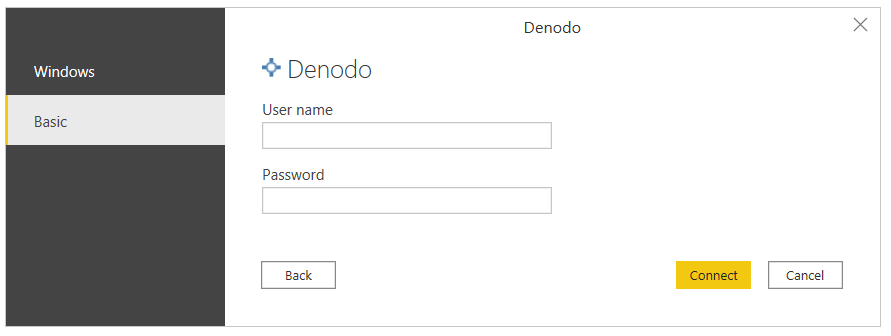
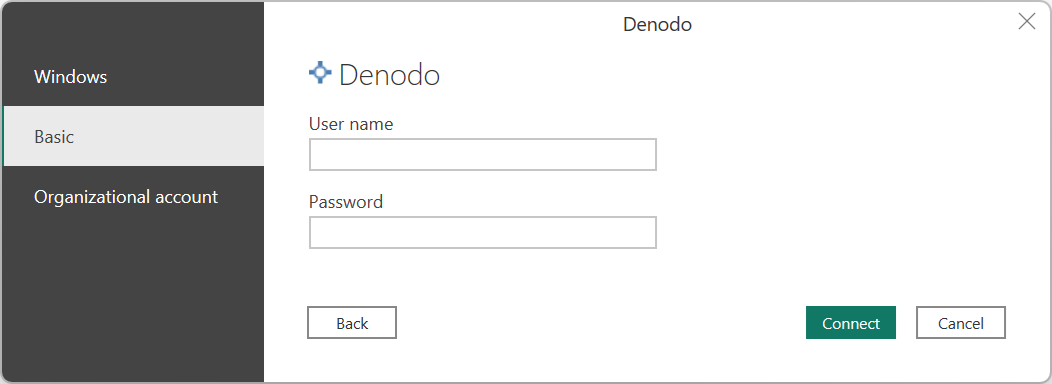
Updated Denodo connector images and MS style

diff --git a/powerquery-docs/connectors/denodo.md b/powerquery-docs/connectors/denodo.md
@@ -12,7 +12,7 @@ ms.custom: sfi-image-nochange
 
 # Denodo
 
->[!Note]
+> [!NOTE]
 >This connector is owned and provided by Denodo.
 
 ## Summary
@@ -21,14 +21,14 @@ ms.custom: sfi-image-nochange
 | ---- | ----------- |
 | Release State | General Availability |
 | Products | Power BI (Semantic models)<br/>Power BI (Dataflows)<br/>Fabric (Dataflow Gen2) |
-| Authentication Types Supported | Basic <br/>Windows<br/> |
+| Authentication Types Supported | Basic <br/>Windows<br/>Organizational account |
 
 > [!NOTE]
 > Some capabilities might be present in one product but not others due to deployment schedules and host-specific capabilities.
 
 ## Prerequisites
 
-To use this connector, you must have installed the Denodo platform, and configured and started its service. In case of a connection using an ODBC DSN, you must have correctly configured the connection in the ODBC Data Source Administrator.
+To use this connector, the Denodo platform must be installed and configured, and its service started. If you have a connection using an ODBC DSN, you must correctly configure the connection in the ODBC Data Source Administrator.
 
 ## Capabilities supported
 
@@ -41,7 +41,7 @@ To make the connection, take the following steps:
 
 1. In order to connect to data, select **Get Data** from the **Home** ribbon and select **Denodo** in the **Database** section.
 
-   :::image type="content" source="./media/denodo/select-denodo.png" alt-text="Denodo connector in Power Query Desktop.":::
+   :::image type="content" source="./media/denodo/select-denodo.png" alt-text="Screenshot of the Denodo connector in Power Query Desktop.":::
 
 2. There are two ways to connect to the data source of your choice:
 
@@ -50,11 +50,11 @@ To make the connection, take the following steps:
 
    In the **DSN or Connection String** section of the **Denodo Connector** dialog box, provide the **Data source name (DSN)** or the **Connection String** depending on the type of connection you prefer.
 
-   :::image type="content" source="./media/denodo/denodo-connector.png" alt-text="Denodo connector dialog.":::
+   :::image type="content" source="./media/denodo/denodo-connector.png" alt-text="Screenshot of the Denodo connector dialog.":::
 
-    When creating a Denodo-compatible connection string, you must take into account that the **Driver** field must be omitted, as this is transparently set at connection time by the connector itself.
+    When creating a Denodo-compatible connection string, you must take into account that the **Driver** field must be omitted, as this field is transparently set at connection time by the connector itself.
 
-    The connection string must contain three mandatory parameters: **SERVER**, **PORT** and **DATABASE**:
+    The connection string must contain three mandatory parameters: **SERVER**, **PORT**, and **DATABASE**:
 
     ```http
     SERVER=<Server name>;PORT=<Port number>;DATABASE=<Database name>
@@ -69,16 +69,16 @@ To make the connection, take the following steps:
     Authentication parameters must be omitted, as authentication is configured in later steps.
 
    > [!NOTE]
-   > When writing the connection string, it must be taken into account:
+   > When you write the connection string, the following considerations must be taken into account:
    >
-   > * The connection string must keep the correct order of its parameters: SERVER, PORT, DATABASE and SSLMode.
+   > * The connection string must keep the correct order of its parameters: SERVER, PORT, DATABASE, and SSLMode.
    > * The name of these parameters must always be written in the same way. For example, if you choose to write them in upper case, they must always be written in upper case; if you decide to write them capitalized (writing the first letter of a word in uppercase and the rest of the letters in lowercase) they must always be written that way.
    >
    > Doing otherwise could prevent Power BI from recognizing different Denodo data sets in a report as belonging to the same Denodo data source and, as a consequence, request separate authentication credentials for each of them.
 
-3. The second section, **Enable debug mode**, is an optional field that allows you to add trace information to log files. These files are created by Power BI Desktop when you enable tracing in the application using the **Diagnostics** tab in the **Options** menu. Note that the default value for **Enable debug mode** is false, and in this scenario, there will be no trace data in the log files from Denodo Power BI custom connector.
+3. The second section, **Enable debug mode**, is an optional field that allows you to add trace information to log files. These files are created by Power BI Desktop when you enable tracing in the application using the **Diagnostics** tab in the **Options** menu. Note that the default value for **Enable debug mode** is false, and in this scenario, there's no trace data in the log files from Denodo Power BI custom connector.
 
-4. The third section, **Native Query**, is an optional field where you can enter a query. If this query field is used, the resulting data set will be the result of the query instead of a table or a set of tables.
+4. The third section, **Native Query**, is an optional field where you can enter a query. If this query field is used, the resulting data set is the result of the query instead of a table or a set of tables.
 
     You can write a query that queries only one of the databases that the datasource is associated with.
 
@@ -96,11 +96,11 @@ To make the connection, take the following steps:
 
 6. Once you're done, select **OK**.
 
-7. Before showing the navigator window that displays a preview of the available data in Denodo Virtual DataPort, you'll be asked for authentication. The Denodo Power BI custom connector supports two authentication types: Windows and Basic.
+7. Before showing the navigator window that displays a preview of the available data in Denodo Virtual DataPort, you're asked for authentication. The Denodo Power BI custom connector supports two authentication types: Windows and Basic.
 
    * **Windows**: When you choose to use Windows authentication, Power BI Desktop connects to Virtual DataPort using Kerberos authentication.
 
-      :::image type="content" source="./media/denodo/denodo-windows-authentication.png" alt-text="Denodo Windows authentication in Power BI Desktop.":::
+      :::image type="content" source="./media/denodo/denodo-windows-authentication.png" alt-text="Screenshot of the Denodo Windows authentication in Power BI Desktop.":::
 
       In this case:
 
@@ -112,35 +112,35 @@ To make the connection, take the following steps:
 
       * Make sure the **Advanced Options** page of the DSN configuration contains all the needed configuration for using Kerberos as an authentication method.
 
-        :::image type="content" source="./media/denodo/denodo-advanced-options-dsn.png" alt-text="Advanced Options page at the Denodo DSN configuration.":::
+        :::image type="content" source="./media/denodo/denodo-advanced-options-dsn.png" alt-text="Screenshot of the Advanced Options page at the Denodo DSN configuration.":::
 
    * **Basic**: This authentication type allows you to connect Power BI Desktop to your Virtual DataPort data using your Virtual DataPort server credentials.
 
-      :::image type="content" source="./media/denodo/denodo-basic-authentication.png" alt-text="Denodo basic authentication in Power BI Desktop.":::
+      :::image type="content" source="./media/denodo/denodo-basic-authentication.png" alt-text="Screenshot of the Denodo basic authentication in Power BI Desktop.":::
 
         > [!NOTE]
-        > Older versions of the Denodo connector required the escaping of certain password characters. As of version 1.0.8 this is no longer needed.
+        > Older versions of the Denodo connector required the escaping of certain password characters. As of version 1.0.8 this escaping is no longer needed.
 
-   * **Organizational Account**: This authentication type allows you to connect Power BI Desktop to your Virtual DataPort data using a specific set of Microsoft crendentials. This authentication kind is a specialized version of OAuth for Microsoft Entra ID. 
+   * **Organizational Account**: This authentication type allows you to connect Power BI Desktop to your Virtual DataPort data using a specific set of Microsoft credentials. This authentication kind is a specialized version of OAuth for Microsoft Entra ID.
   
-        :::image type="content" source="./media/denodo/denodo-entra-id-authentication.png" alt-text="Denodo organizational account authentication in Power BI Desktop.":::
-    
+        :::image type="content" source="./media/denodo/denodo-entra-id-authentication.png" alt-text="Screenshot of the Denodo organizational account authentication in Power BI Desktop.":::
+
         When you select **Sign in**, a sign-in tab opens. Enter the Microsoft credentials to be used for this data source.
 
-        :::image type="content" source="./media/denodo/denodo-entra-id-authentication2.png" alt-text="Denodo organizational account sign in.":::
+        :::image type="content" source="./media/denodo/denodo-entra-id-authentication2.png" alt-text="Screenshot of the Denodo organizational account sign in.":::
 
         Once you're signed in, select **Connect** and the navigator screen for table selection should load.
-     
-        :::image type="content" source="./media/denodo/denodo-entra-id-authentication3.png" alt-text="Denodo organizational account connect.":::
+
+        :::image type="content" source="./media/denodo/denodo-entra-id-authentication3.png" alt-text="Screenshot of the Denodo organizational account connect.":::
 
         > [!NOTE]
-        > In order to access VDP databases, a user must be created in Denodo whose name is the same as the email used in Power BI when signing in to the organizational account. When creating the user in Denodo, EXTERNAL must be selected as authentication type. The permissions given to this user on the Denodo databases determines which databases can be accessed from Power BI Desktop.
+        > In order to access VDP databases, a user must be created in Denodo whose name is the same as the email used in Power BI when signing in to the organizational account. When you create the user in Denodo, EXTERNAL must be selected as authentication type. The permissions given to this user on the Denodo databases determine which databases can be accessed from Power BI Desktop.
 
 8. Once you're done, select **Connect**.
 
 9. In **Navigator**, select the data you need from the database you want and choose **Load**, or choose **Transform Data** if you're going to modify the incoming data.
 
-   :::image type="content" source="./media/denodo/denodo-navigator.png" alt-text="Denodo navigator.":::
+   :::image type="content" source="./media/denodo/denodo-navigator.png" alt-text="Screenshot of the Denodo navigator.":::
 
 ## Connect to an ODBC data source from Power BI service using the on-premises data gateway
 
@@ -150,17 +150,17 @@ To make the connection, take the following steps:
 
 2. Sign in and register your gateway. In the on-premises data gateway app, select the **Status** tab to verify that your gateway is online and ready to be used.
 
-   :::image type="content" source="./media/denodo/on-premises-data-gateway.png" alt-text="On-premises data gateway with status tab open.":::
+   :::image type="content" source="./media/denodo/on-premises-data-gateway.png" alt-text="Screenshot of the on-premises data gateway with status tab open.":::
 
 3. Using the gateway settings page in Power BI service, create a data source for the Denodo Power BI custom connector.
 
-   :::image type="content" source="./media/denodo/data-source-settings-select-denodo.png" alt-text="Add Denodo Data source.":::
+   :::image type="content" source="./media/denodo/data-source-settings-select-denodo.png" alt-text="Screenshot of the Data Source Settings dialog where you add the Denodo Data source.":::
 
    In order to create the data source, you have to specify the way to connect to the data source of your choice:
       * Through DSN
       * Using a connection string
       > [!NOTE]
-      > When deciding whether to connect via a connection string or DSN, it is recommended to use the latter. This is because the DSN configuration offers many more configuration options that might not be directly available when using a connection string.
+      > When deciding whether to connect via a connection string or DSN, it's recommended to use the latter. This method is recommended because the DSN configuration offers many more configuration options that might not be directly available when using a connection string.
 
    You also have to specify the authentication mode. The available authentication methods are:
       * **Windows**: When you choose to use Windows authentication, Power BI service connects to Virtual DataPort using Kerberos authentication. You need:
@@ -169,29 +169,29 @@ To make the connection, take the following steps:
          * The Denodo Virtual DataPort database that the data source connects to must be configured with the option **ODBC/ADO.net authentication type** set to **Kerberos**.
          * Make sure the **Advanced Options** page of the DSN configuration contains all the needed configuration for using Kerberos as an authentication method.
 
-           :::image type="content" source="./media/denodo/denodo-advanced-options-dsn.png" alt-text="Advanced Options page at the Denodo DSN configuration.":::
+           :::image type="content" source="./media/denodo/denodo-advanced-options-dsn.png" alt-text="Screenshot of the Advanced Options page at the Denodo DSN configuration.":::
 
       * **Basic**: This authentication type allows you to create a data source in Power BI service to connect to your Virtual DataPort data using your Virtual DataPort server credentials.
       * **Oauth**: This authentication type allows you to create a data source in Power BI service to connect to your Virtual DataPort data using Microsoft credentials.
 
         > [!NOTE]
-        > In order to access the VDP databases, a user must be created in Denodo whose name is the same as the email used in Power BI when logging into the organizational account. When creating the user in Denodo, EXTERNAL must be selected as authentication type. The permissions given to this user on the Denodo databases determines which databases can be accessed from Power BI.
-        
+        > In order to access the VDP databases, a user must be created in Denodo whose name is the same as the email used in Power BI when logging into the organizational account. When you create the user in Denodo, EXTERNAL must be selected as authentication type. The permissions given to this user on the Denodo databases determine which databases can be accessed from Power BI.
+
 4. If you use Windows authentication, under **Advanced settings** for the data source you can enable the single sign-on (SSO) authentication schema in order to use the same credentials of the user accessing your reports in Power BI for accessing the required data in Denodo.
 
-   :::image type="content" source="./media/denodo/denodo-sso.png" alt-text="Denodo SSO using Kerberos.":::
+   :::image type="content" source="./media/denodo/denodo-sso.png" alt-text="Screenshot of the Data Source Settings dialog where you set Denodo SSO using Kerberos.":::
 
    There are two options for enabling SSO: **Use SSO via Kerberos for DirectQuery queries** and **Use SSO via Kerberos for DirectQuery And Import queries**. If you're working with _DirectQuery_ based reports, both options use the SSO credentials of the user that signs in to the Power BI service. The difference comes when you work with _Import_ based reports. In this scenario, the former option uses the credentials entered in the data source page (**Username** and **Password** fields), while the latter uses the credentials of the data set owner.
 
    It's important to note that there are particular prerequisites and considerations that you must take into account in order to use the Kerberos-based SSO. Some of these essential requirements are:
 
-   * Kerberos constrained delegation must be enabled for the Windows user running the Microsoft Power BI Gateway, and configuration of both the local Active Directory and Microsoft Entra ID environments should be performed according to the instructions offered by Microsoft for this purpose.
+   * Kerberos constrained delegation must be enabled for the Windows user running the Microsoft Power BI Gateway. Also, configuration of both the local Active Directory and Microsoft Entra ID environments should be performed according to the instructions offered by Microsoft for this purpose.
 
-     By default, the Microsoft Power BI Gateway sends the user principal name (UPN) when it performs an SSO authentication operation. Therefore, you'll need to review the attribute that you'll use as a login identifier in Denodo Kerberos Authentication and, if it's different from `userPrincipalName`, adjust the gateway settings according to this value.
+     By default, the Microsoft Power BI Gateway sends the user principal name (UPN) when it performs an SSO authentication operation. Therefore, you need to review the attribute that you use as a login identifier in Denodo Kerberos Authentication and, if it's different from `userPrincipalName`, adjust the gateway settings according to this value.
 
-   * The Microsoft Power BI Gateway configuration file called `Microsoft.PowerBI.DataMovement.Pipeline.GatewayCore.dll.config`, stored at `\Program Files\On-premises data gateway` has two properties called `ADUserNameLookupProperty` and `ADUserNameReplacementProperty` that allow the gateway to perform local Microsoft Entra ID lookups at runtime. The `ADUserNameLookupProperty` must specify against which attribute of the local AD it must map the user principal name that comes from Microsoft Entra ID. So, in this scenario, `ADUserNameLookupProperty` should be `userPrincipalName`. Then, once the user is found, the `ADUserNameReplacementProperty` value indicates the attribute that should be used to authenticate the impersonated user (the attribute that you'll use as the login identifier in Denodo).
+   * The Microsoft Power BI Gateway configuration file called `Microsoft.PowerBI.DataMovement.Pipeline.GatewayCore.dll.config`, stored at `\Program Files\On-premises data gateway` has two properties called `ADUserNameLookupProperty` and `ADUserNameReplacementProperty` that allow the gateway to perform local Microsoft Entra ID lookups at runtime. The `ADUserNameLookupProperty` must specify against which attribute of the local AD it must map the user principal name that comes from Microsoft Entra ID. So, in this scenario, `ADUserNameLookupProperty` should be `userPrincipalName`. Then, once the user is found, the `ADUserNameReplacementProperty` value indicates the attribute that should be used to authenticate the impersonated user (the attribute that you use as the login identifier in Denodo).
 
-     You should also take into account that changes in this configuration file are at the gateway level, and therefore will affect any source with which SSO authentication is done through the Microsoft Power BI Gateway.
+     You should also take into account that changes in this configuration file are at the gateway level, and therefore affects any source with which SSO authentication is done through the Microsoft Power BI Gateway.
 
 5. Once a data source is created for the Denodo connector, you can refresh Power BI reports. To publish a report on powerbi.com, you need to:
    * Open the report in Power BI Desktop.
@@ -201,45 +201,45 @@ To make the connection, take the following steps:
 
 ## Advanced configuration
 
-### Use of the ConnectionTimeout parameter.
+### Use of the ConnectionTimeout parameter
 
-If you want to control how long to wait before abandoning an attempt to make a connection to a server, you can use the  `ConnectionTimeout` parameter. 
+If you want to control how long to wait before abandoning an attempt to make a connection to a server, you can use the  `ConnectionTimeout` parameter.
 
 This parameter can only be used from the advanced editor. To do so, the `ConnectionTimeout` parameter must be added in the record options, associating a value of type `duration` to it.
 
 > Learn more about the `duration` type [here](/powerquery-m/sharpduration).
 
-   :::image type="content" source="./media/denodo/denodo-connectiontimeout.png" alt-text="Use of the ConnectionTimeout parameter.":::
+   :::image type="content" source="./media/denodo/denodo-connectiontimeout.png" alt-text="Screenshot of the advanced editor showing how to use of the ConnectionTimeout parameter.":::
 
-### Use of the QueryTimeout parameter.
+### Use of the QueryTimeout parameter
 
 If you want to control how long to wait before abandoning an attempt to make the execution of a query, you can use the `QueryTimeout` parameter.
 
 This parameter can only be used from the advanced editor. To do so, the `QueryTimeout` parameter must be added in the record options, associating a value of type `number` to it. This numeric value is represented in milliseconds, for example 10000 equals 10s.
 
-   :::image type="content" source="./media/denodo/denodo-querytimeout.png" alt-text="Use of the QueryTimeout parameter.":::
+   :::image type="content" source="./media/denodo/denodo-querytimeout.png" alt-text="Screenshot of the advanced editor showing how to use of the QueryTimeout parameter.":::
 
-### Use of the UserAgent parameter.
+### Use of the UserAgent parameter
 
 If you want to specify the name of the client application, you can use the `UserAgent` parameter.
 
 This parameter can only be used from the advanced editor. To do so, the `UserAgent` parameter must be added in the record options, associating a value of type `text`.
 
-   :::image type="content" source="./media/denodo/denodo-useragent.png" alt-text="Use of the UserAgent parameter.":::
+   :::image type="content" source="./media/denodo/denodo-useragent.png" alt-text="Screenshot of the advanced editor showing how to use of the UserAgent parameter.":::
 
-### Use of the Compression parameter.
+### Use of the Compression parameter
 
-It is recommended to activate this setting when the client application and the Denodo server are connected through a WAN. In these cases, you can expect significant performance improvements when the client application reads moderate or large data volumes. For this you can use the `Compression` parameter.
+We recommend that you activate this setting when the client application and the Denodo server are connected through a WAN. In these cases, you can expect significant performance improvements when the client application reads moderate or large data volumes. For this, you can use the `Compression` parameter.
 
 This parameter can only be used from the advanced editor. To do so, the `Compression` parameter must be added in the record options, associating a value of type `number` (0 or 1).
 
-   :::image type="content" source="./media/denodo/denodo-compression.png" alt-text="Use of the Compression parameter.":::
+   :::image type="content" source="./media/denodo/denodo-compression.png" alt-text="Screenshot of the advanced editor showing how to use of the Compression parameter.":::
 
 ## Troubleshooting
 
-### Loading data when a field in a Denodo view has more than 42 relations with other views.
+### Loading data when a field in a Denodo view has more than 42 relations with other views
 
-If a Denodo view being imported as a data source into Power BI has more than 42 relations with other views, Power BI might display the following error when accessing the data transformation window: 
+If a Denodo view being imported as a data source into Power BI has more than 42 relations with other views, Power BI might display the following error when accessing the data transformation window:
 
 `Preview.Error: The type of the current preview value is too complex to display.`
 
@@ -255,4 +255,4 @@ So your call would look similar to:
   Source = Denodo.Contents(<dsn>, null, [CreateNavigationProperties=false])
 ```
 
-This property will instruct Power BI not to try and generate navigation properties from the relationships registered for the Denodo view accessed in this data source. So if you need some of these relationships to be actually present in your Power BI data model, _you will need to manually register them afterwards_.
+This property instructs Power BI not to try to generate navigation properties from the relationships registered for the Denodo view accessed in this data source. So if you need some of these relationships to be actually present in your Power BI data model, _you need to manually register them afterwards_.
